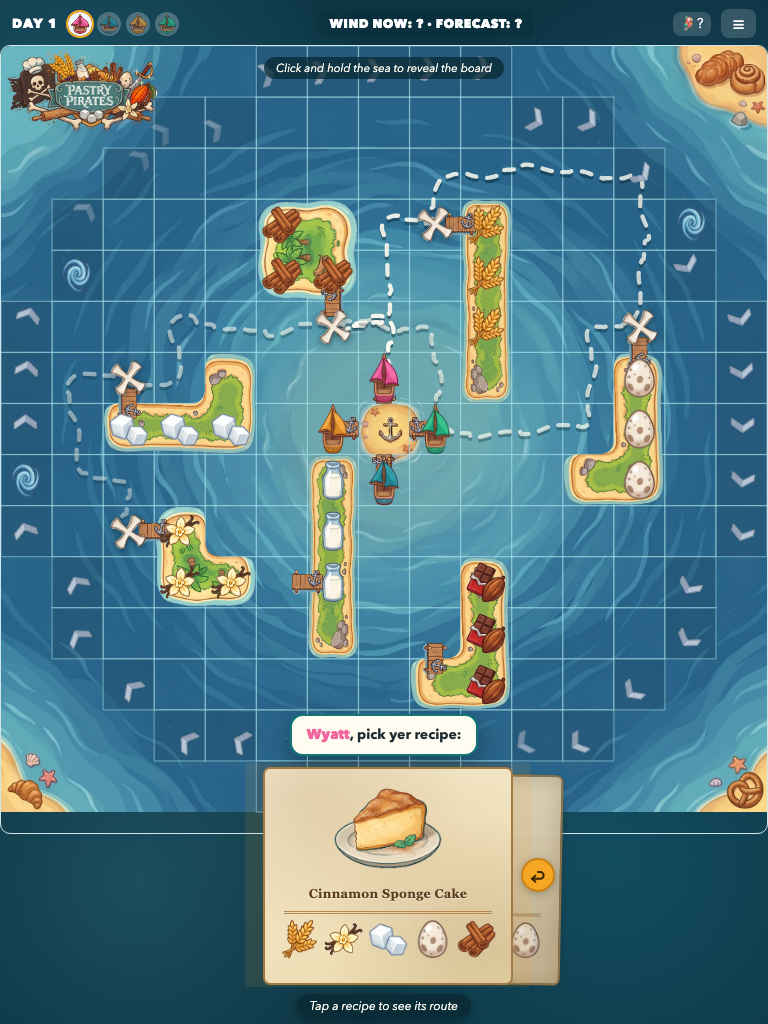
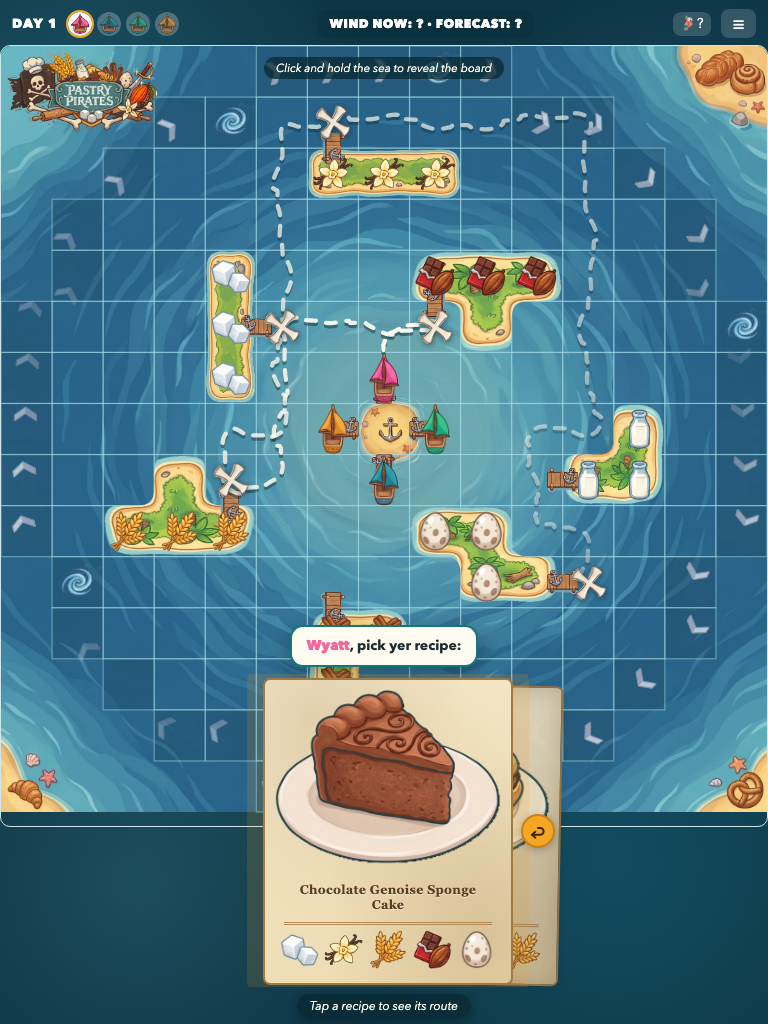
His playtest #2 and #4: the arrival, and the card that was mostly empty
#2 — FOUR FINDINGS, ONE CAUSE, AND THE CAUSE WAS MINE.

He reported the cards not centred on the board, a broken scale-fade, and dropped
frames on the way across. All three came from yesterday's sound-icon alignment
reading the card's LIVE rect: during the arrival the sheet carries the flight's
own transform, so that rect is wherever the animation currently has it — and the
block ran on every tick of a four-second show. Recorded frame by frame: ONE
arrival rewrote the sheet's parked left eleven times at 1920 (1207 -> 991 -> 943
-> 989 -> 976) and ten times at 1280. The phone, the one size where this block
does not run, was the only clean one — and the only one with zero long frames.

  · the flight measures dx ONCE, so moving the parked left afterwards moved the
    board-centre hold with it: the cards held 244px right of centre;
  · a style write plus a rect read every tick is layout thrashing: 6 frames over
    33ms at 1920, worst 91ms, against ZERO on the phone;
  · and an entrance reads wrong when the thing being scaled is also jumping.

Now: the alignment runs only while parked, the flight will not start until it has
settled, and it reads the card's INSET inside the sheet — which the sheet's own
transform cannot change. Measured after: ONE parked value per size, and ZERO
frames over 33ms at every size.

#2 — HIS TWO SECONDS, AND THE BOARD IS WHY THEY MATTER. "I want the cards to
appear after a 2-second delay, to let the users see the board first." The first
[…]

diff --git a/src/ui/stage.js b/src/ui/stage.js
@@ -2256,6 +2256,17 @@ let rcFlightTimers = [];
    middle of the board and then written back as the parked geometry. That is the
    two-answers-for-one-number fault this picker has already paid for twice. */
 let rcInFlight = false;
+/* ⭐ IS THE PARKED LEFT FINAL YET? The flight computes its dx ONCE, from wherever the sheet is
+   parked at the instant it starts — so anything that moves the parked left afterwards silently
+   moves the flight's destination and its board-centre hold with it. Wyatt, playtest 2026-09-10:
+   "the cards should appear directly over the center of the board; in desktop this is not what
+   happened... there is a glitch with the cards moving over to the side, where they drop frames."
+   Measured: 244px right of centre, and eleven rewrites of the parked left during one arrival.
+   So the sound-icon alignment must finish BEFORE the flight starts and must not run again while it
+   is running — during the flight both the sheet (the flight) and the front card (the swap) are
+   under their own transforms, and every rect the alignment could read is a lie about where things
+   will come to rest. One write, on the tick the cards are first laid out; nothing after. */
+let rcAlignReady = false;
 /* The live animations, so a picker that is torn down mid-show does not leave a fill:both animation
    pinning the sheet somewhere the tick is no longer writing. */
 let rcAnims = [];
@@ -2280,6 +2291,17 @@ const RC_CARD_MAX = 375;
    result, and a flight that anticipates — pulls back before it goes — and overshoots on arrival.
    He asked for "more game feel and weight"; what he picked is a heavier, slower, springier card
    than anything I proposed. Do not tighten these back up without asking him. */
+/* ⭐ THE BOARD GETS TWO SECONDS TO ITSELF FIRST — Wyatt, playtest 2026-09-10: "I want the cards to
+   appear after a 2-second delay, to let the users see the board first."
+   The sheet is pinned to opacity 0 for this whole window (promptTick sets it, rcFlightShow's
+   keyframes take it back), so it is genuinely invisible rather than drawn and then hidden.
+   ⭐ AND THE WAIT IS WHERE THE SHOW IS MEASURED FROM. The first version made this a `delay` on the
+   entrance keyframes, which meant the geometry was still read two seconds early — while the board
+   was still laying out at 1012px against the 1036px it settles at, which held the cards 87px right
+   of centre. Spending the delay first and measuring after costs nothing and makes every number in
+   the show a fact about a board that has stopped moving. His tuner numbers are untouched: they all
+   run from the end of this wait. */
+const RC_DELAY_MS = 2000;    // board alone, before anything arrives
 const RC_FADE_MS  = 1160;    // the entrance
 const RC_FROM     = 1.25;    // starts 25% LARGER and settles down — his choice, not a typo
 const RC_OVER     = 1.03;    // and dips a little past 1 on the way
@@ -2302,6 +2324,7 @@ function rcFlightStop(){
 function rcFlightReset(){
   rcFlightStop();
   rcFlightKey = null;
+  rcAlignReady = false;
   const box = $("pp4Prompt");
   if (box) box.style.transform = "";   // (.pp4RcHold went with the CSS transition — see rcFlightRun)
 }
@@ -2337,20 +2360,66 @@ function boardDrawnRect(){
 function rcFlightRun(key, brd){
   const box = $("pp4Prompt");
   if (!box || !brd) return;
+  /* ⚠ BEFORE rcFlightReset(), AND THAT ORDER IS THE WHOLE POINT. dx below is measured ONCE and
+     never revisited, so the flight must not start while the sound-icon alignment still has a
+     correction to make — but rcFlightReset() CLEARS rcAlignReady, so testing it after the reset
+     tests a flag this function just falsified. Measured: the guard failed on every tick forever,
+     the entrance was never attached, and the opacity pin promptTick sets was never released — the
+     picker did not appear at all, at any size. Return before touching any state: nothing has been
+     reset and no key has been claimed, so this is simply "try again next tick". */
+  if (!rcAlignReady) return;
   rcFlightReset();
   rcFlightKey = key;
 
   const REDUCED = typeof matchMedia === "function" && matchMedia("(prefers-reduced-motion: reduce)").matches;
-  if (REDUCED) return;                     // parked, immediately, and no demo swap: the show IS motion
+  /* ⚠ EVERY EXIT HANDS THE OPACITY BACK. promptTick pins the sheet to 0 before calling this so it
+     cannot flash un-animated; any path that does not attach the entrance owes it a release, or the
+     picker is invisible for the rest of the voyage. Reduced motion is the loudest case: the whole
+     show is skipped, so the sheet must simply BE there. */
+  const rcShow = () => { const b = $("pp4Prompt"); if (b) b.style.opacity = ""; };
+  if (REDUCED) { rcShow(); return; }        // parked, immediately, and no demo swap: the show IS motion
 
-  /* ⚠ fixedRect, NOT gBCR — `brd` arrives in body-relative space (see boardDrawnRect) and a delta
+  /* ⭐ THE WHOLE SHOW IS MEASURED WHEN IT STARTS, NOT WHEN IT IS SCHEDULED — and his two-second
+     delay is what makes that possible. dx is computed ONCE and every beat hangs off it, so reading
+     the geometry early bakes an early answer into all of them. Measured 2026-09-10: at the instant
+     the picker first ticks, the board is still laying out — 1012px wide against the 1036px it
+     settles at — and the cards held 87px right of centre because of it. Waiting the delay costs
+     nothing (the sheet is pinned invisible for exactly that window anyway) and every number below
+     is then read off a board that has stopped moving.
+     ⚠ fixedRect, NOT gBCR — `brd` arrives in body-relative space (see boardDrawnRect) and a delta
      between two different coordinate spaces is off by exactly the item-22 shift. Both sides in one
      space or neither. */
+  rcInFlight = true;                 // from NOW: the sheet is the show's, and promptTick keeps off it
+  rcLater(() => rcFlightShow(box, brd, rcShow), RC_DELAY_MS);
+}
+
+/* The show itself, one tick of the clock after rcFlightRun claimed the picker. Split out so the
+   measurement and the keyframes are the same statement — see the note at the call above. */
+function rcFlightShow(box, brd, rcShow){
+  if (!box.isConnected) { rcShow(); rcInFlight = false; return; }
   const r = fixedRect(box);
-  if (r.width < 2 || r.height < 2) { rcFlightKey = null; return; }   // not laid out yet — try next tick
-  const dx = Math.round((brd.left + brd.width  / 2) - (r.left + r.width  / 2));
-  const dy = Math.round((brd.top  + brd.height / 2) - (r.top  + r.height / 2));
-  if (!dx && !dy) return;                  // parked IS the middle (a board smaller than the sheet)
+  if (r.width < 2 || r.height < 2) { rcFlightKey = null; rcInFlight = false; rcShow(); return; }
+  /* ⭐ THE CARD OVER THE MIDDLE, NOT THE SHEET — Wyatt, playtest 2026-09-10: "the cards should
+     appear directly over the center of the board; in desktop this is not what happened."
+     The sheet is wider than the card it carries: the swap circle and the back card's peek both
+     live inside it, off to the right, so a sheet centred on the board leaves the CARD left of
+     centre — measured at 88px on 1920 and 56px on 1280, and 5px on a phone where the sheet is
+     barely wider than the card, which is exactly why this only ever looked wrong on desktop.
+     Centre the thing he is looking at. The flight's transform is on the SHEET, so moving the sheet
+     by this delta moves the card by the same delta — measuring the card and translating the sheet
+     is not a mismatch, it is the only way to aim at the card at all. */
+  const aim = (() => {
+    const ap0 = $("actionPanel");
+    if (!ap0) return r;
+    const c = [...ap0.querySelectorAll(".apBtn")]
+      .filter(b => b.querySelector(".recipeList") && fixedRect(b).width > 2)
+      .sort((a, b) => fixedRect(a).left - fixedRect(b).left)[0];
+    const cr = c ? fixedRect(c) : null;
+    return (cr && cr.width > 2 && cr.height > 2) ? cr : r;
+  })();
+  const dx = Math.round((brd.left + brd.width  / 2) - (aim.left + aim.width  / 2));
+  const dy = Math.round((brd.top  + brd.height / 2) - (aim.top  + aim.height / 2));
+  if (!dx && !dy) { rcShow(); rcInFlight = false; return; }   // parked IS the middle (a board smaller than the sheet)
 
   /* ⭐ DRIVEN BY THE WEB ANIMATIONS API, NOT BY A CSS TRANSITION — and that is what his tuner
      numbers actually require. A transition can carry one value from A to B on one curve; it cannot
@@ -2362,20 +2431,23 @@ function rcFlightRun(key, brd){
   const ANIMS = [];
   const hold = `translate(${dx}px, ${dy}px)`;
 
+  /* the delay is already spent — these are his numbers, from now */
+  const rcAt = ms => ms;
+
   ANIMS.push(box.animate([
     { opacity: 0, transform: `${hold} scale(${RC_FROM})`, offset: 0 },
     { opacity: 1, transform: `${hold} scale(${RC_OVER})`, offset: .62 },
     { opacity: 1, transform: `${hold} scale(1)`,          offset: 1 },
   ], { duration: RC_FADE_MS, easing: "cubic-bezier(.2,.7,.3,1)", fill: "both" }));
+  rcShow();   // the keyframes own opacity from here — they fill backwards through the delay
 
   /* AND IT HOLDS THERE. Without this the entrance's fill:both ends and the box snaps to its parked
      place the instant the fade finishes — a second animation pinned to the same transform is what
      keeps it over the middle of the board for his 950ms of stillness and the swap. */
   ANIMS.push(box.animate([{ transform: hold }, { transform: hold }],
-    { duration: RC_LAND_MS + RC_SWAP_MS + RC_HOLD_MS, delay: RC_FADE_MS, fill: "both" }));
+    { duration: RC_LAND_MS + RC_SWAP_MS + RC_HOLD_MS, delay: rcAt(RC_FADE_MS), fill: "both" }));
 
-  rcInFlight = true;
-  rcLater(() => { if (rcSwapFn) rcSwapFn(); }, RC_FADE_MS + RC_LAND_MS);
+  rcLater(() => { if (rcSwapFn) rcSwapFn(); }, rcAt(RC_FADE_MS + RC_LAND_MS));
 
   rcLater(() => {
     const b2 = $("pp4Prompt");
@@ -2389,7 +2461,7 @@ function rcFlightRun(key, brd){
       { transform: `translate(${lx}px, ${ly}px) scale(${1 + RC_SQUASH}, ${1 - RC_SQUASH})`, offset: .72 },
       { transform: "translate(0px, 0px) scale(1,1)", offset: 1 },
     ], { duration: RC_FLY_MS, easing: "cubic-bezier(.68,-.55,.27,1.55)", fill: "both" }));
-  }, RC_FADE_MS + RC_LAND_MS + RC_SWAP_MS + RC_HOLD_MS);
+  }, rcAt(RC_FADE_MS + RC_LAND_MS + RC_SWAP_MS + RC_HOLD_MS));
 
   /* AND EVERYTHING IS CANCELLED WHEN THE SHOW ENDS, or a fill:both animation would hold the sheet
      off its parked place for the rest of the voyage — the tick would keep writing left/top that
@@ -2399,7 +2471,7 @@ function rcFlightRun(key, brd){
     rcInFlight = false;
     ANIMS.forEach(a => { try { a.cancel(); } catch (e) {} });
     rcAnims = [];
-  }, RC_FADE_MS + RC_LAND_MS + RC_SWAP_MS + RC_HOLD_MS + RC_FLY_MS + 40);
+  }, rcAt(RC_FADE_MS + RC_LAND_MS + RC_SWAP_MS + RC_HOLD_MS + RC_FLY_MS + 40));
 }
 
 /* ⭐ THE HELPER PILL IS LOCKED UNDER THE CARDS — Wyatt, 2026-09-09: "make that 'tap a recipe'
@@ -2425,6 +2497,11 @@ function rcChromeTeardown(box){
   const a0 = box.querySelector(".pp4RcAsk");  if (a0) a0.remove();
   const p0 = box.querySelector(".pp4RcHelp"); if (p0) p0.remove();
   rcFlightReset();        // a transform must never outlive the box it moved
+  /* ⚠ AND NEITHER MAY THE OPACITY PIN. #pp4Prompt is the ONE box every prompt in the game is drawn
+     in, so a picker torn down between "pinned to 0" and "the entrance took over" would hand the
+     next question — a trade, a battle, the end card — a permanently invisible box. Same reasoning
+     as the transform on the line above, and the same one-line cure. */
+  box.style.opacity = "";
 }
 
 /* ⚠ THE DRAG IS GONE, ON PURPOSE, AND THIS NOTE IS ALL THAT SURVIVES IT — 2026-09-09.
@@ -3734,7 +3811,12 @@ function promptTick(force){
       const r = fixedRect(c);
       return (r.width > 2 && r.left >= brd.right - 4) ? r : null;
     })();
-    if (capCol){
+    /* NOT WHILE IT IS FLYING. Everything this block measures is under an animation's transform
+       once the show starts — see rcAlignReady where it is declared. */
+    /* A LAYOUT WITH NO COLUMN NEVER ALIGNS, so it is ready by definition — a phone and a tablet
+       must not wait for a step that will never run. */
+    if (!capCol) rcAlignReady = true;
+    if (capCol && !rcInFlight){
       /* THE ICON, NOT THE ROW. #btnMute is the whole menu line — "Sound: ON – blocked by yer
          browser", 540px of it — and he said "the left pixel of the SOUND ICON". The glyph is the
          <img class="narrIcon"> inside it; the row's own left differs from it by whatever padding
@@ -3751,16 +3833,38 @@ function promptTick(force){
       /* the ROW's display, not the image's: an <img> inside a display:none row is itself
          `inline`, so asking the image answers a different question than the one intended. */
       if (icon && front && row && getComputedStyle(row).display !== "none"){
-        const iR = fixedRect(icon), fR = fixedRect(front);
+        const iR = fixedRect(icon), fR = fixedRect(front), bR = fixedRect(box);
         if (iR.width > 2 && fR.width > 2){
-          const shift = Math.round(iR.left - fR.left);
-          if (Math.abs(shift) > 1){
-            const want = Math.round(parseFloat(box.style.left || 0) + shift);
+          /* ⭐ THE CARD'S INSET INSIDE THE SHEET, NOT ITS POSITION ON SCREEN — and that difference
+             is the whole of Wyatt's playtest item 2 ("the cards should appear directly over the
+             center of the board; in desktop this is not what happened... there is a glitch with
+             the cards moving over to the side, where they drop frames").
+             MEASURED, 2026-09-10: this block used to read the card's LIVE left and add the
+             difference to the sheet's parked left. During the arrival the flight puts a transform
+             on the sheet, so that live left is wherever the ANIMATION currently has it — and this
+             ran on every tick of a four-second animation. One arrival rewrote the parked left
+             ELEVEN times at 1920 (1207 -> 991 -> 943 -> 989 -> 976) and ten times at 1280. Three of
+             his findings fall out of that one mistake:
+               · rcFlightRun computes its dx ONCE, from the parked left at flight start; moving that
+                 left afterwards means translate(dx) no longer lands on the board's centre, so the
+                 cards held 244px right of it;
+               · a style write plus a rect read, every tick, is layout thrashing — 6 frames over
+                 33ms at 1920 (worst 91ms) against ZERO on a phone, which is the one size where
+                 this block does not run;
+               · and the entrance reads wrong because the thing it is scaling is also jumping.
+             The sheet's transform moves the card and the sheet by exactly the same amount, so
+             `card.left - sheet.left` is INVARIANT under it. Ask for that, and the answer is the
+             same on every frame: it settles in one tick and writes nothing after. */
+          const inset = fR.left - bR.left;
+          const parked = parseFloat(box.style.left || 0) || 0;
+          const want = Math.round(iR.left - inset);
+          rcAlignReady = true;          // the cards are laid out and this tick has the final answer
+          if (Math.abs(want - parked) > 1){
             /* never off the glass: the alignment is a preference, reachability is not.
                ⚠ CLAMPED AGAINST THE PAINTED WIDTH, not `box.style.width` — the board-centre branch
                above never assigns a width, so reading the inline style there measures 0 and the
                clamp silently permits the sheet to leave the screen. */
-            const bw = Math.round(fixedRect(box).width) || 0;
+            const bw = Math.round(bR.width) || 0;
             box.style.left = Math.max(8 - fixedOrigin().x, Math.min(want, glassR - bw - 8)) + "px";
           }
         }
@@ -3898,7 +4002,17 @@ function promptTick(force){
        flight measures the parked box and the parked box is only correct once every clamp above has
        been applied (the lift, the width, the overflow nudge). Keyed to rcKey, so a picker that
        simply re-ticks costs nothing and the NEXT captain's picker gets its own flight. */
-    if (rcKey && rcFlightKey !== rcKey) rcFlightRun(rcKey, brd);
+    /* ⚠ NOTHING IS SHOWN UNTIL THE ENTRANCE OWNS IT. rcFlightRun can legitimately decline a tick
+       or two — waiting for the sheet to be laid out, and now for the sound-icon alignment to
+       settle — and for those ticks the sheet is displayed with no animation attached, i.e. fully
+       opaque at its parked place. Measured after adding the alignment gate: the cards appeared for
+       one frame, vanished for the two seconds Wyatt asked for, then faded in. Hold it at zero
+       until the entrance's own keyframes take over (they fill backwards through the delay, so
+       opacity 0 is exactly what they would have painted anyway). */
+    if (rcKey && rcFlightKey !== rcKey){
+      box.style.opacity = "0";
+      rcFlightRun(rcKey, brd);
+    }
     /* ⭐ AND THE REVEAL'S HEIGHT PIN IS RELEASED ONCE THE ART HAS LANDED.
        MEASURED at 390x844: the white sheet ran 132..445 while its content ended at 346 — 99px of
        blank cream under the card. The cause is not this block: runHeightSequence (panel.js) pins

diff --git a/index.html b/index.html
@@ -2973,7 +2973,21 @@
      numbers those rules actually declare (26 -> 52, 54 -> 81), not from a guess at what is on
      screen. */
   body.pp4Stage #actionPanel .apBtn .recipeIcons .ri img { max-width:52px; }
-  body.pp4Stage #actionPanel .apBtn .recipeThumb { height:81px; margin:0 auto 6px; }
+  /* ⭐ THE ARTWORK FILLS THE CARD — Wyatt, playtest 2026-09-10: "there is far too much empty space
+     at the top and bottom of the card, which would be solved if you made the recipe image bigger —
+     make it as big as it can be while still leaving consistent padding around the tops and sides
+     of the card."
+     MEASURED BEFORE: at 1920 the card was 365x318 with an 88x81 pastry in it — 138px of dead space
+     on EACH SIDE and ~66px above and below. The card had been told to be half again as tall and
+     nothing had been told to fill it.
+     `width:100%` is the whole rule, and it is the version with no number in it: the art now spans
+     the card's content box exactly, so the space either side of it IS the card's own 9px padding,
+     and matching that above is a `margin-top:0` rather than a typed figure. The height follows the
+     artwork's own proportions instead of being asserted — which is why this cannot warp a pastry,
+     and why a squarer future illustration simply makes a squarer card.
+     `min-height` above stays as a FLOOR for a card whose art is unusually wide and short. */
+  body.pp4Stage #actionPanel .apBtn .recipeThumb {
+    width:100%; height:auto; max-width:100%; margin:0 auto 6px; }
   /* THE FOCUSED CARD RESERVES A STRIP FOR THE PILL, rather than the pill covering whatever is
      underneath it. Moving it off the artwork (O2) only pushed the problem onto the ingredient
      icons — a smaller crime, still a crime, and visible in the very next screenshot. The card
